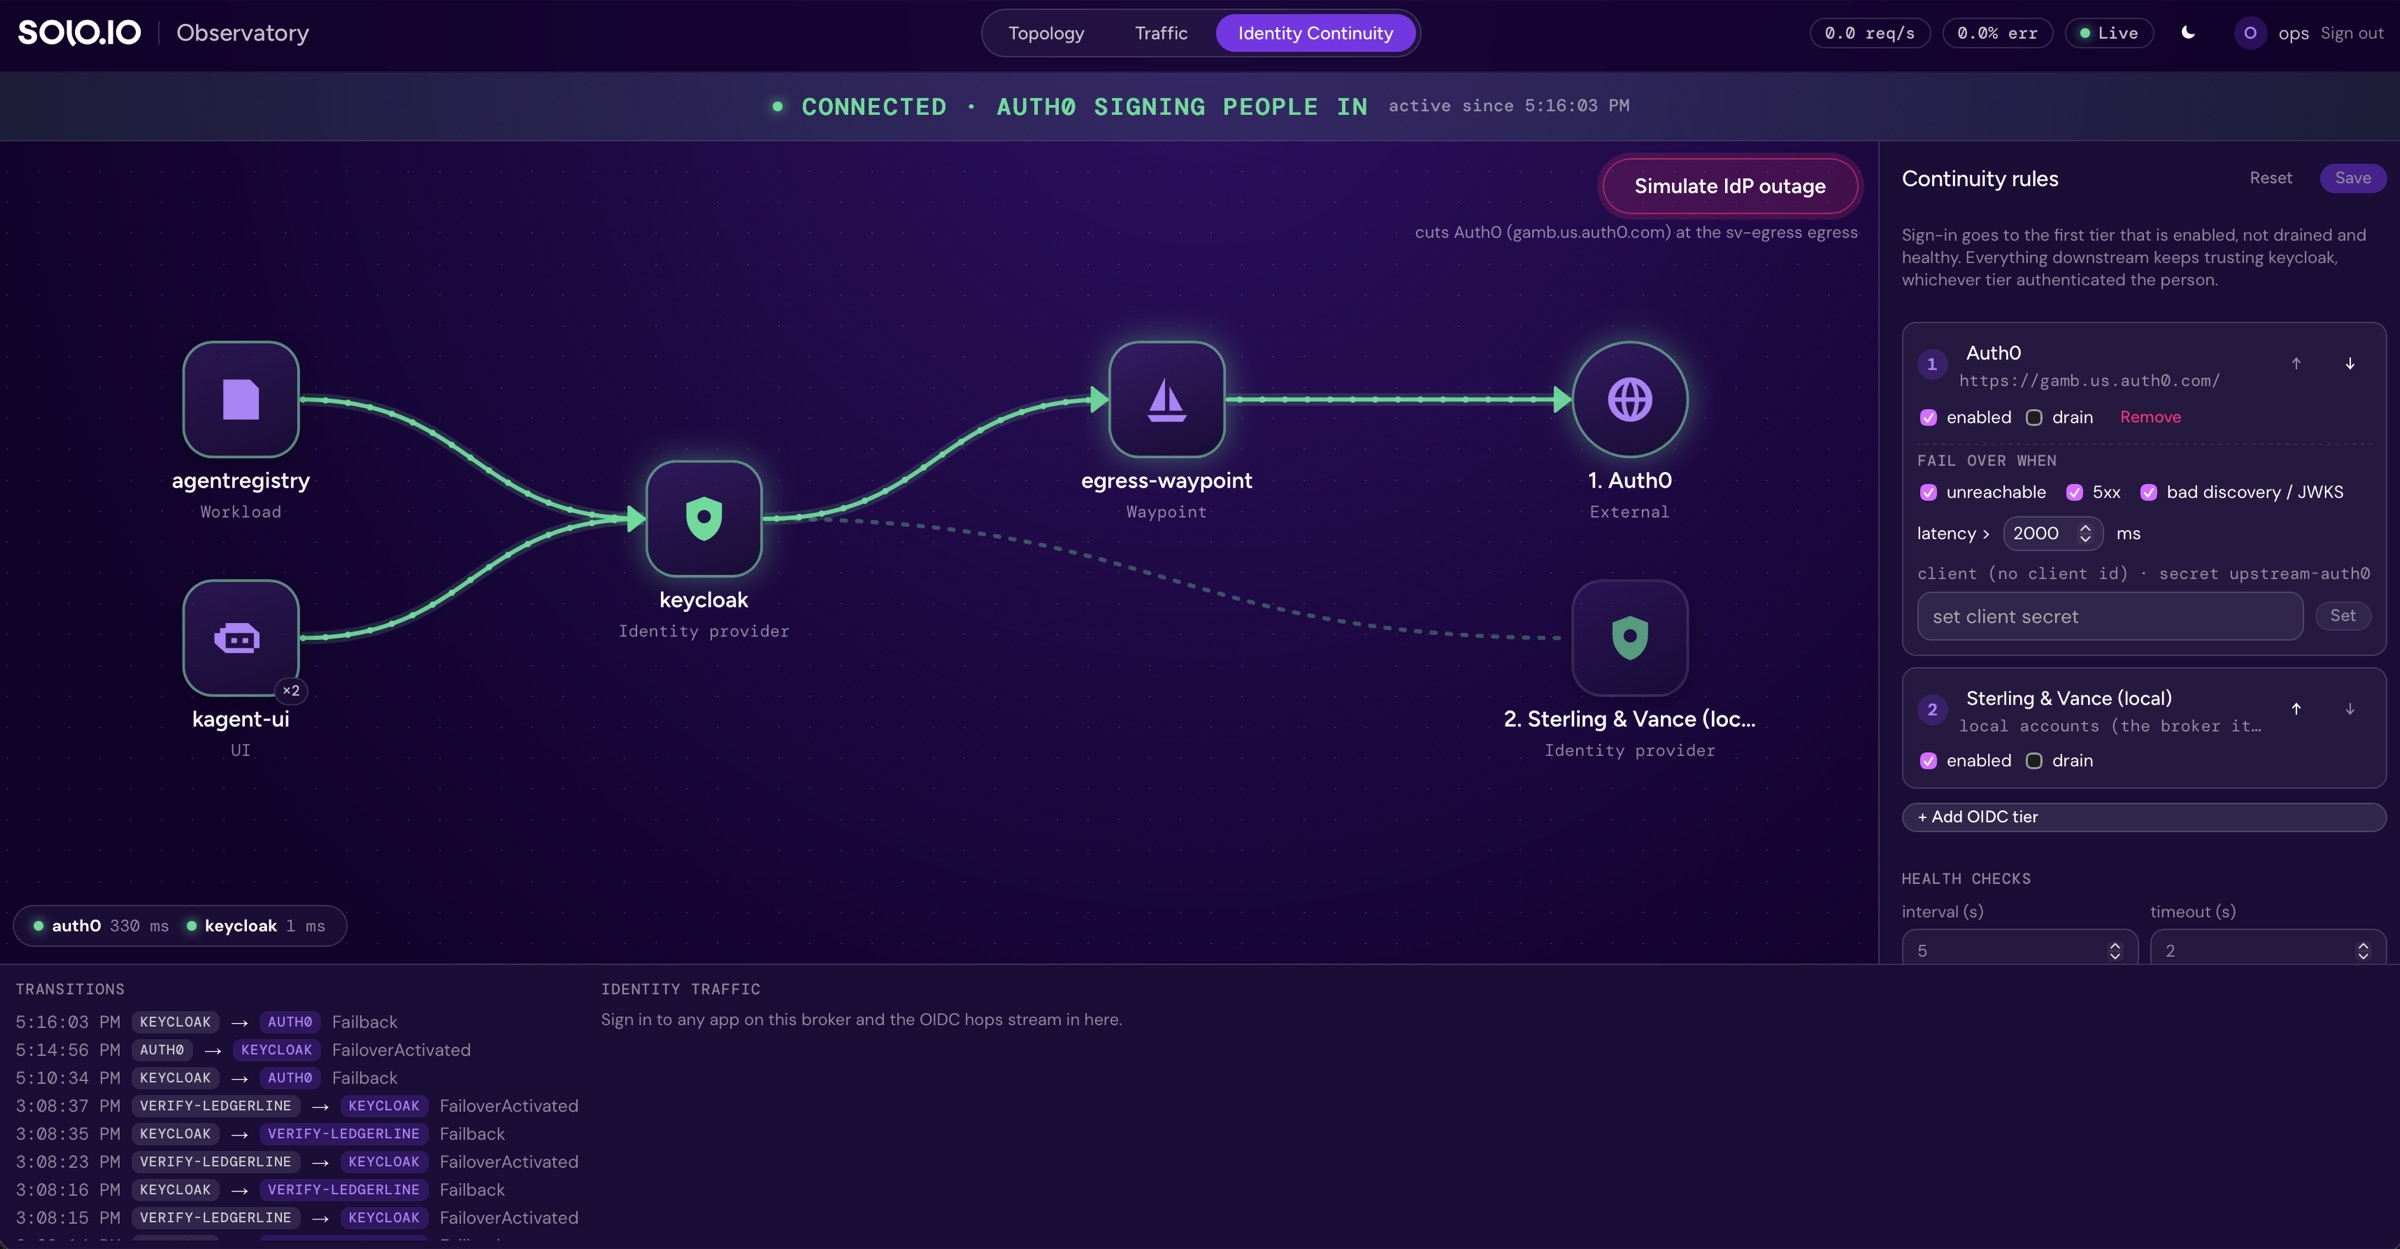
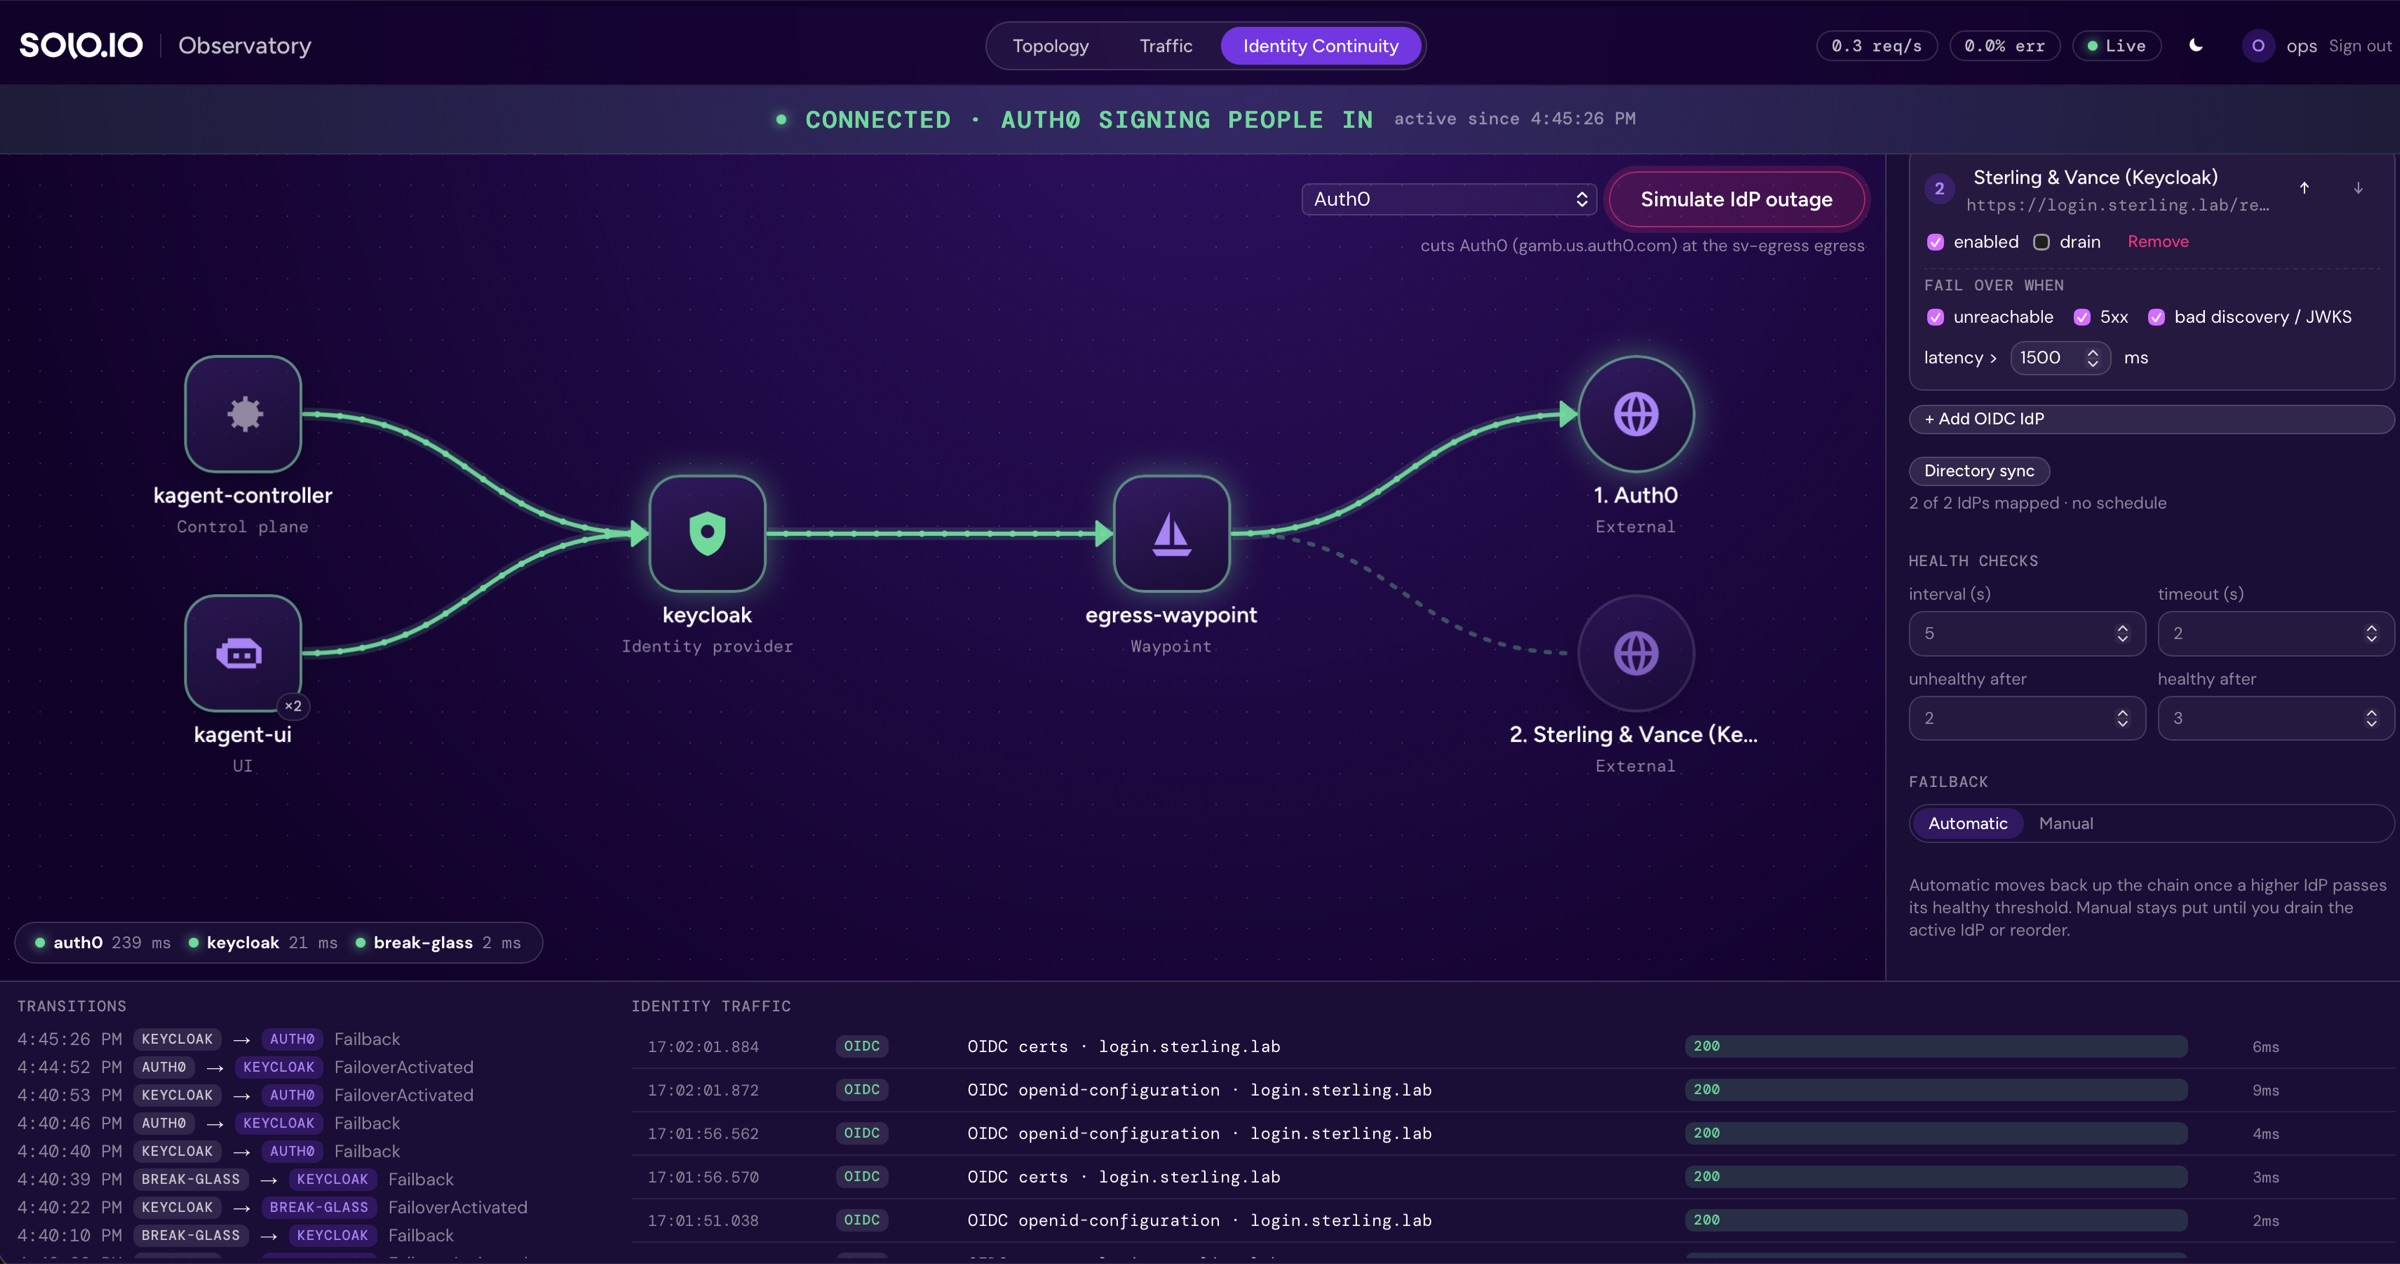
docs: directory sync and identity continuity screenshots
The Identity Continuity tab with S&V's IdP chain, and the Directory sync
window's canvas, Code and Schedule tabs, in the README, OBSERVATORY.md and
IDENTITY-CONTINUITY.md. The continuity doc's Observatory section says IdP
where it said tier, and its banner table matches the UI. The tab's health
pill lists the IdPs only. Removes a stray file from docs/images.

diff --git a/apps/observatory/web/src/continuity/ContinuityTab.tsx b/apps/observatory/web/src/continuity/ContinuityTab.tsx
@@ -231,10 +231,12 @@ function Banner({ phase, active, primary, since, cut, checks, reason }: {
   )
 }
 
+// TierHealth: each IdP's last probe. The broker's break-glass accounts are
+// not an IdP, so they aren't listed.
 function TierHealth({ tiers }: { tiers: TierStatus[] }) {
   return (
     <div className="health">
-      {tiers.map(t => (
+      {tiers.filter(t => t.type !== 'local').map(t => (
         <div key={t.name} className="hrow">
           <span className={`dot ${t.configured === false ? 'idle' : t.healthy ? 'ok' : 'bad'}`} />
           <b>{t.name}</b>

diff --git a/docs/IDENTITY-CONTINUITY.md b/docs/IDENTITY-CONTINUITY.md
@@ -288,22 +288,22 @@ failover takes about 10 s after the cut and failback about 15 s after the heal.
 ![Failover: the network to Auth0 cut at the egress, sign-in through the next IdP](images/observatory-continuity-failover.jpg)
 
 - **Map:** every app that signs people in through the broker (found from the
-  edge's SSO configuration), the broker, the egress gateway, and the tiers in
-  order. The live path is green.
+  edge's SSO configuration), the broker, the egress gateway, and the IdPs in
+  chain order. The live path is green.
 - **Banner:**
 
 | State | Banner |
 | --- | --- |
-| first tier active | green: `CONNECTED · <tier> SIGNING PEOPLE IN` |
-| cut, not failed over yet | amber, pulsing: `OUTAGE · <tier> UNREACHABLE · FAILING OVER`, with failed checks counted |
+| first IdP active | green: `CONNECTED · <idp> SIGNING PEOPLE IN` |
+| cut, not failed over yet | amber, pulsing: `OUTAGE · <idp> UNREACHABLE · FAILING OVER`, with failed checks counted |
 | failed over | red, pulsing: `FAILOVER ACTIVE · <active> → REPLACING <first>`, with who cut what and when |
-| healed, verifying | amber: `NETWORK RESTORED · VERIFYING <tier> BEFORE FAILING BACK`, with healthy checks counted |
-| no healthy tier | red: `SIGN-IN UNAVAILABLE · NO HEALTHY TIER` |
+| healed, verifying | amber: `<idp> ANSWERING AGAIN · VERIFYING BEFORE FAILING BACK`, with healthy checks counted |
+| no healthy IdP | red: `SIGN-IN UNAVAILABLE · NO HEALTHY IDP` |
 
 - **Simulate IdP outage / Restore IdP network:** creates or deletes the kill
-  switch policy for the active upstream (a picker appears with more than one
-  upstream). The cut wire reads `NETWORK CUT`, the tier is stamped `OUTAGE`,
-  and the egress gateway turns red. The policy records who cut it.
+  switch policy for the active IdP (a picker appears with more than one).
+  The cut wire reads `NETWORK CUT`, the IdP is stamped `OUTAGE`, and the
+  egress gateway turns red. The policy records who cut it.
 - **Rule builder** (right): IdP order, enable, drain, failover conditions,
   latency limit, client secrets (write-only), new OIDC IdPs (the redirect URI
   to register is shown), health settings, and **Fail back automatically**. Save applies the spec as
@@ -321,6 +321,13 @@ failover takes about 10 s after the cut and failback about 15 s after the heal.
   **Schedule** sets the sync's cron, pauses it, shows the last run and runs
   it now. Directory credentials are write-only and readable by the sync
   alone.
+
+  ![Directory sync canvas: Auth0's detected attributes wired to S&V's profile, S&V's own Keycloak written from it](images/observatory-directory-sync-canvas.jpg)
+
+  ![The same mapping as JSON](images/observatory-directory-sync-code.jpg)
+
+  ![Schedule: cron presets, next runs, the last run and Run now](images/observatory-directory-sync-schedule.jpg)
+
 - **Transitions** and **Identity traffic** (bottom): failovers, cuts and
   restores, and OIDC calls.
 

diff --git a/README.md b/README.md
@@ -140,8 +140,22 @@ different lab renders the same way.
   views (All, Identity, Agents & tools, Cross-party), and PNG export.
 - **Traffic:** every gateway's access log, with the verified token claims on
   each request.
-- **Identity Continuity:** the sign-in chain, the outage button, and the rule
-  builder.
+- **Identity Continuity:** the sign-in chain, the outage button, the rule
+  builder, and the directory sync.
+
+![Identity Continuity: Auth0 signing people in through the S&V egress, S&V's own Keycloak as the failover, the rule builder on the right](docs/images/observatory-continuity-connected.jpg)
+
+S&V's broker (Keycloak at `idp.sterling.lab`) routes sign-in to the firm's
+IdPs in failover order: here Auth0, then the Keycloak S&V runs itself at
+`login.sterling.lab`. The directory sync keeps those IdPs in step so
+whichever one is active signs each employee in with the same profile: it
+reads the primary IdP's user attributes into S&V's profile on the broker,
+then writes that profile to every failover IdP, creating the users the
+primary has. Each IdP's attributes are detected from its directory and wired
+to S&V's on a canvas; the same mapping is editable as JSON, and the sync runs
+on a schedule or on demand.
+
+![Directory sync: each IdP's detected attributes wired to S&V's profile; the primary is read, the failovers are written](docs/images/observatory-directory-sync-canvas.jpg)
 
 [![Observatory walkthrough at 4x speed: topology views, hover, details and live YAML, traffic with token claims, and an IdP outage with failover and failback](docs/videos/observatory.gif)](https://youtu.be/Y3P4a7HRvVs)
 

diff --git a/docs/OBSERVATORY.md b/docs/OBSERVATORY.md
@@ -106,8 +106,28 @@ fingerprint before the record is kept.
 
 ### Identity Continuity
 
-The sign-in chain for each `IdentityContinuity`, the outage button and the
-rule builder. See [IDENTITY-CONTINUITY.md](IDENTITY-CONTINUITY.md#in-the-observatory).
+The sign-in chain for each `IdentityContinuity`, the outage button, the rule
+builder, and the directory sync window. See
+[IDENTITY-CONTINUITY.md](IDENTITY-CONTINUITY.md#in-the-observatory).
+
+![Identity Continuity: the chain from the apps through the broker and the egress to each IdP, with the rule builder](images/observatory-continuity-connected.jpg)
+
+- **Directory sync, Canvas:** the IdPs in chain order on the left (the
+  primary is read, the failovers are written), S&V's profile on the right.
+  Each IdP lists the attributes its directory has; wires pair them with S&V's.
+
+  ![Directory sync canvas](images/observatory-directory-sync-canvas.jpg)
+
+- **Code:** the same mapping as JSON: each S&V attribute, then each IdP's
+  attribute paired with it, in chain order. Leaving the tab applies it to
+  the canvas.
+
+  ![Directory sync as JSON](images/observatory-directory-sync-code.jpg)
+
+- **Schedule:** when the sync runs (UTC cron, with presets), the last run's
+  outcome, and **Run now**.
+
+  ![Directory sync schedule and last run](images/observatory-directory-sync-schedule.jpg)
 
 ## Where the data comes from
 
